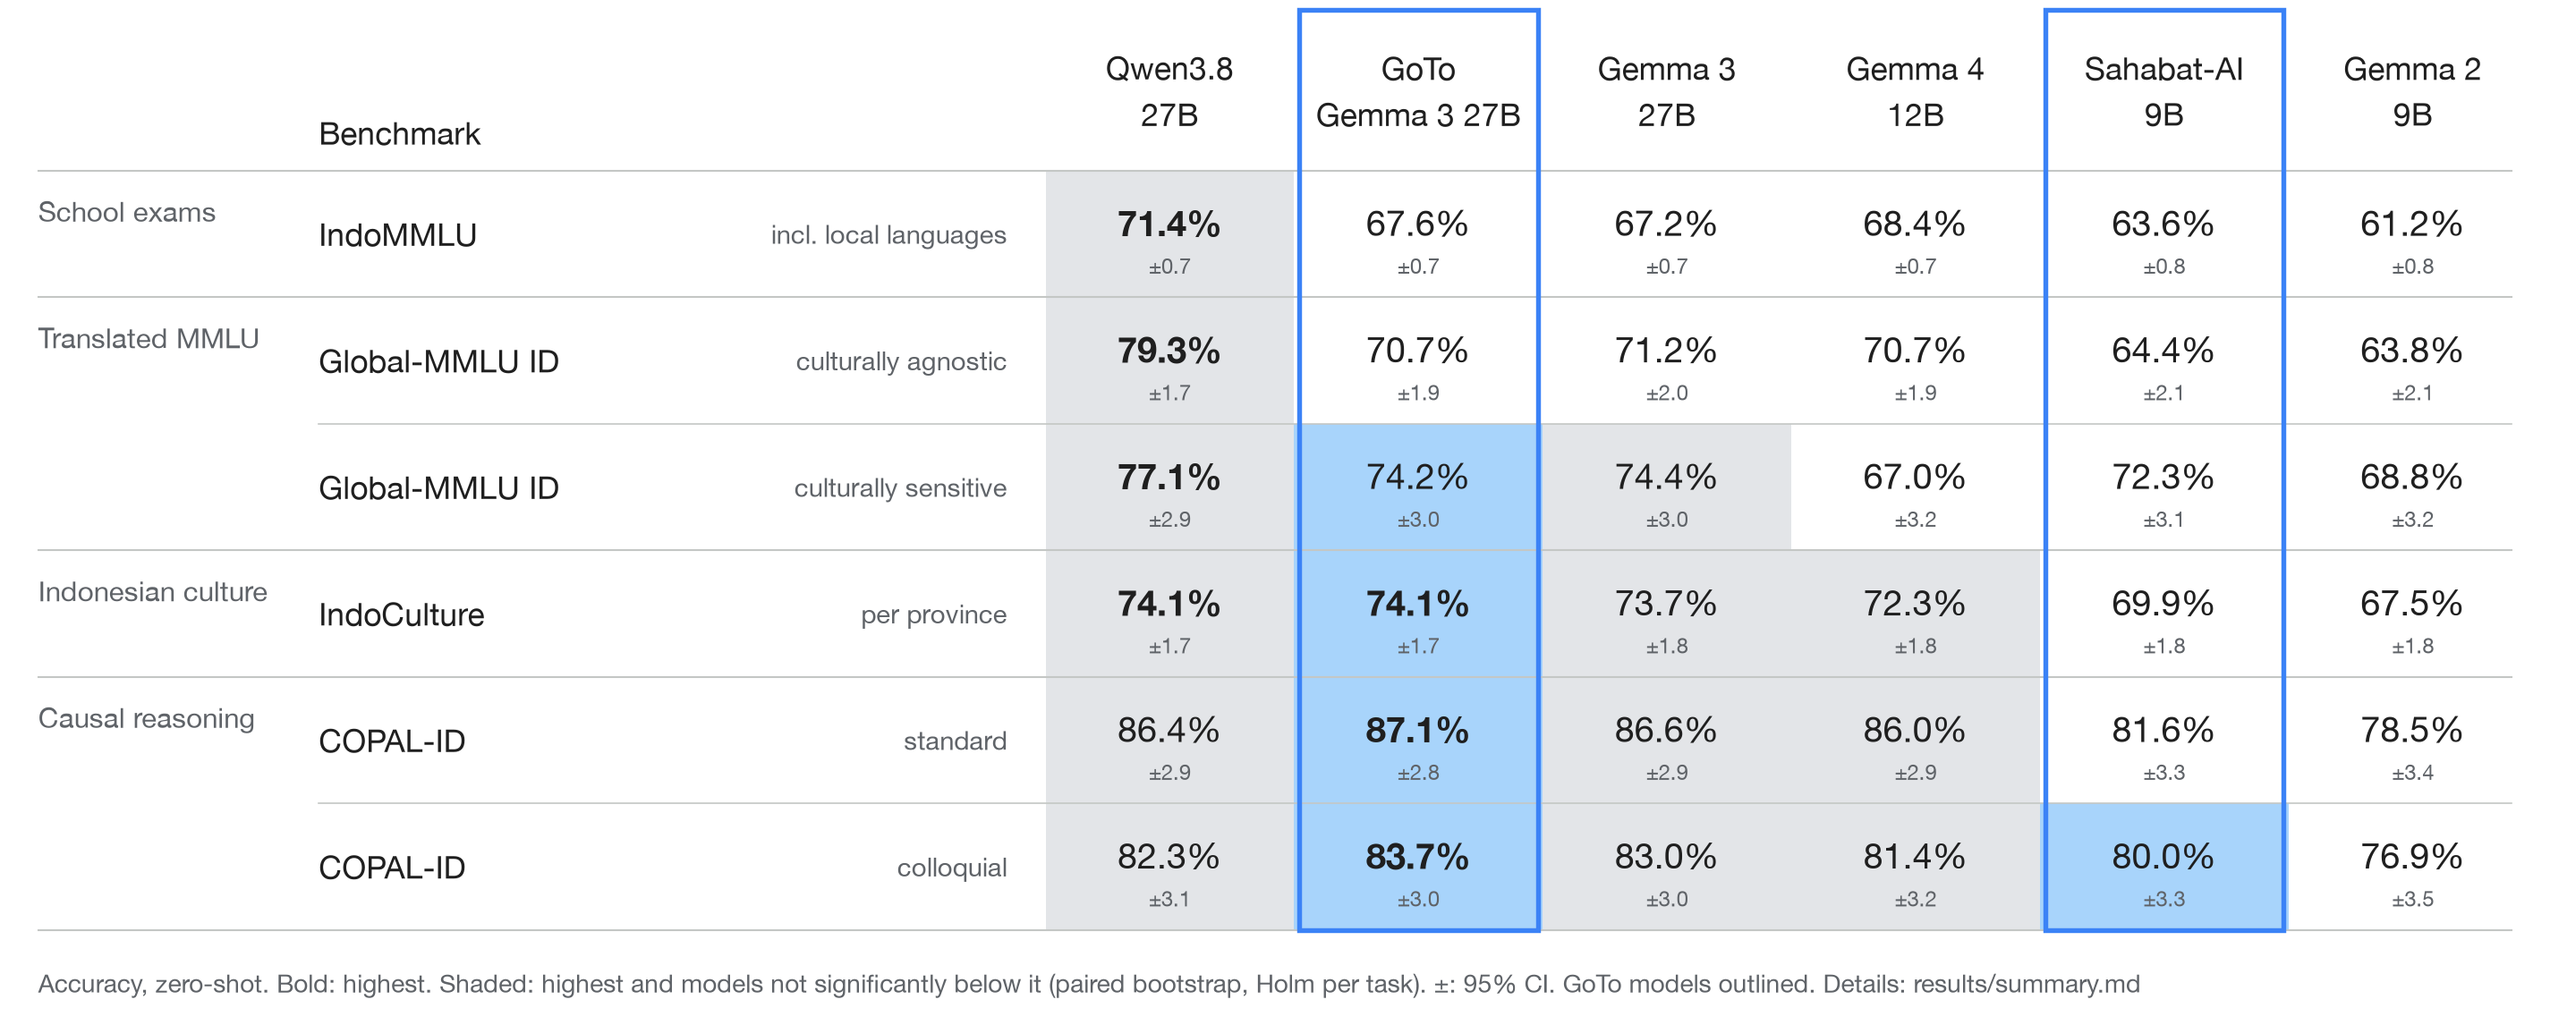
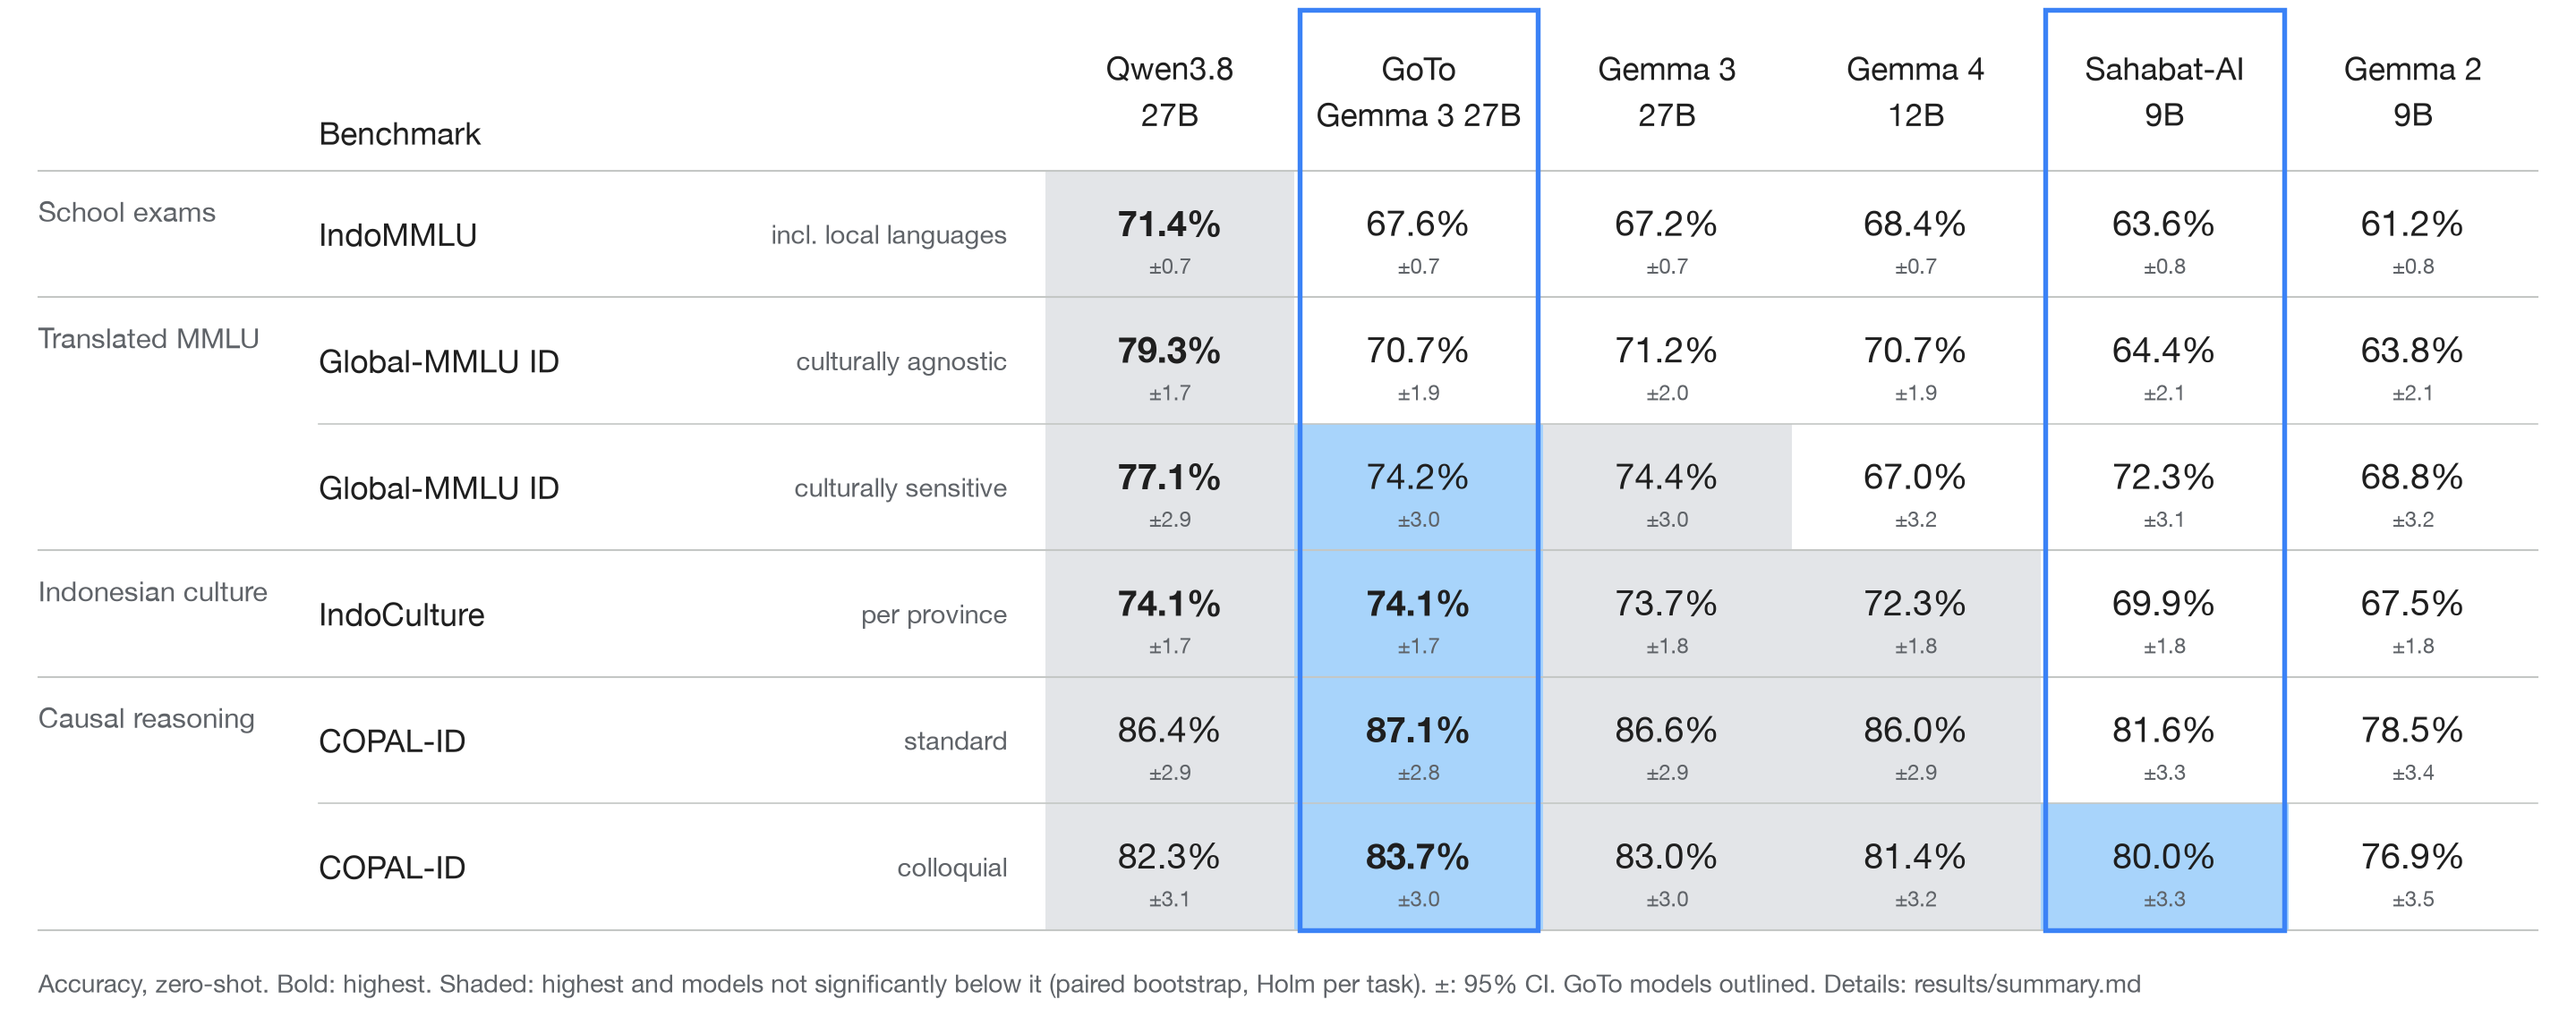
Render the Claude results as a PNG table like the open-model one
results_table.py now renders both tables; the figure width follows the column count.
The Claude table shows the best open model as a muted reference column and a cost row.

diff --git a/analysis/results_table.py b/analysis/results_table.py
@@ -1,7 +1,8 @@
 """Render the headline results table as a PNG for the README.
 
 Reads results/summary.csv and results/best_per_task.csv (both written by analysis/summarize.py) and
-writes results/results_table.png. Bold = highest score. Shaded = highest score and every model not
+writes results/results_table.png; does the same for results/claude/ -> results/claude_table.png, with the
+best open model as a muted reference column. Bold = highest score. Shaded = highest score and every model not
 significantly below it (paired bootstrap, Holm-corrected within the task); blue in a highlighted
 column, grey otherwise. Regional (GoTo) models are outlined. +/- is the 95% bootstrap CI half-width.
 
@@ -17,7 +18,7 @@ from matplotlib.patches import Rectangle
 
 REPO = Path(__file__).resolve().parent.parent
 
-MODELS = [  # (key in summary.csv, header, highlighted)
+OPEN_MODELS = [  # (key in summary.csv, header, highlighted)
     ("qwen3.8-27b", "Qwen3.8\n27B", False),
     ("gotoai-gemma3-27b-it", "GoTo\nGemma 3 27B", True),
     ("gemma3-27b-it", "Gemma 3\n27B", False),
@@ -25,6 +26,14 @@ MODELS = [  # (key in summary.csv, header, highlighted)
     ("sahabatai-gemma2-9b-it", "Sahabat-AI\n9B", True),
     ("gemma2-9b-it", "Gemma 2\n9B", False),
 ]
+CLAUDE_MODELS = [
+    ("claude-haiku-5.5", "Haiku 5.5", False),
+    ("claude-sonnet-5.5", "Sonnet 5.5", False),
+    ("claude-opus-5.5", "Opus 5.5", False),
+]
+REFERENCE = ("qwen3.8-27b", "Qwen3.8 27B\n(best open)")
+# Batch-price cost for all 21,301 items, from the DONE_*.json files of run api-claude (raw runs not in repo).
+CLAUDE_COST = {"claude-haiku-5.5": "$0.31", "claude-sonnet-5.5": "$7.43", "claude-opus-5.5": "$21.70"}
 ROWS = [  # (category, benchmark, note, task in summary.csv)
     ("School exams", "IndoMMLU", "incl. local languages", "indommlu_t0"),
     ("Translated MMLU", "Global-MMLU ID", "culturally agnostic", "global_mmlu_full_id_ca_t0"),
@@ -44,27 +53,29 @@ X_COL0, COL_W = 0.41, 0.0975
 HEADER_H, ROW_H = 1.35, 1.0
 
 
-def load_scores() -> dict[tuple[str, str], tuple[float, float]]:
+def load_scores(path: Path) -> dict[tuple[str, str], tuple[float, float]]:
     """(model, task) -> (score %, CI half-width %)."""
-    with (REPO / "results/summary.csv").open() as f:
+    with path.open() as f:
         return {(r["model"], r["task"]): (float(r["score"]) * 100,
                                           (float(r["ci_hi"]) - float(r["ci_lo"])) * 50)
                 for r in csv.DictReader(f)}
 
 
-def load_ties() -> set[tuple[str, str]]:
-    with (REPO / "results/best_per_task.csv").open() as f:
+def load_ties(path: Path) -> set[tuple[str, str]]:
+    with path.open() as f:
         return {(r["model"], r["task"]) for r in csv.DictReader(f) if r["tied_with_best"] == "true"}
 
 
-def main() -> None:
-    scores = load_scores()
-    ties = load_ties()
-    n_rows = len(ROWS)
+def render(models, scores, ties, out: Path, caption: str, reference=None, cost=None) -> None:
+    """reference: (model key, header) drawn as a muted last column, outside bold/tie marking.
+    cost: model key -> text for an extra bottom row."""
+    cols = models + ([(reference[0], reference[1], False)] if reference else [])
+    n_rows = len(ROWS) + (1 if cost else 0)
     total_h = HEADER_H + n_rows * ROW_H + 0.75
-    fig = plt.figure(figsize=(19, 1.0 + total_h * 0.82), dpi=150)
+    right = X_COL0 + len(cols) * COL_W + X_CAT  # figure width follows the column count
+    fig = plt.figure(figsize=(19 * right, 1.0 + total_h * 0.82), dpi=150)
     ax = fig.add_axes([0, 0, 1, 1])
-    ax.set_xlim(0, 1)
+    ax.set_xlim(0, right)
     ax.set_ylim(total_h, 0)
     ax.axis("off")
     plt.rcParams["font.family"] = ["Helvetica Neue", "Arial", "DejaVu Sans"]
@@ -76,10 +87,11 @@ def main() -> None:
 
     # Header
     ax.text(X_TASK, HEADER_H - 0.3, "Benchmark", fontsize=17, color=INK, va="center")
-    for i, (_, header, _) in enumerate(MODELS):
-        ax.text(col_x(i) + COL_W / 2, HEADER_H / 2 + 0.05, header, fontsize=17, color=INK,
+    for i, (_, header, _) in enumerate(cols):
+        ax.text(col_x(i) + COL_W / 2, HEADER_H / 2 + 0.05, header, fontsize=17,
+                color=MUTED if reference and i == len(models) else INK,
                 ha="center", va="center", linespacing=1.25)
-    ax.plot([X_CAT, 1 - X_CAT], [body_top, body_top], color=RULE, lw=1)
+    ax.plot([X_CAT, right - X_CAT], [body_top, body_top], color=RULE, lw=1)
 
     # Rows
     prev_cat = None
@@ -88,17 +100,22 @@ def main() -> None:
         mid = top + ROW_H / 2
         if cat != prev_cat:
             if prev_cat is not None:
-                ax.plot([X_CAT, 1 - X_CAT], [top, top], color=RULE, lw=1)
+                ax.plot([X_CAT, right - X_CAT], [top, top], color=RULE, lw=1)
             ax.text(X_CAT, top + 0.32, cat, fontsize=15, color=MUTED, va="center")
         else:
-            ax.plot([X_TASK, 1 - X_CAT], [top, top], color=RULE, lw=0.8)
+            ax.plot([X_TASK, right - X_CAT], [top, top], color=RULE, lw=0.8)
         prev_cat = cat
         ax.text(X_TASK, mid, bench, fontsize=17, color=INK, va="center")
         ax.text(X_NOTE_RIGHT, mid, note, fontsize=14, color=MUTED, va="center", ha="right")
 
-        vals = [scores.get((m, task)) for m, _, _ in MODELS]
-        top_score = max(round(v[0], 1) for v in vals if v is not None)
-        for i, ((m, _, hl), v) in enumerate(zip(MODELS, vals)):
+        vals = [scores.get((m, task)) for m, _, _ in cols]
+        top_score = max(round(v[0], 1) for v in vals[:len(models)] if v is not None)
+        for i, ((m, _, hl), v) in enumerate(zip(cols, vals)):
+            if i >= len(models):  # reference column: plain muted score
+                if v is not None:
+                    ax.text(col_x(i) + COL_W / 2, mid, f"{v[0]:.1f}%", fontsize=19, color=MUTED,
+                            ha="center", va="center")
+                continue
             if (m, task) in ties:
                 ax.add_patch(Rectangle((col_x(i), top), COL_W, ROW_H, lw=0,
                                        facecolor=BLUE_FILL if hl else GREY_FILL, zorder=0))
@@ -109,22 +126,41 @@ def main() -> None:
                     va="center", fontweight="bold" if round(v[0], 1) == top_score else "normal")
             ax.text(col_x(i) + COL_W / 2, mid + 0.25, f"±{v[1]:.1f}", fontsize=11.5, color=MUTED,
                     ha="center", va="center")
-    ax.plot([X_CAT, 1 - X_CAT], [body_bottom, body_bottom], color=RULE, lw=1)
+    if cost:
+        top = body_top + len(ROWS) * ROW_H
+        ax.plot([X_CAT, right - X_CAT], [top, top], color=RULE, lw=1)
+        ax.text(X_CAT, top + 0.32, "Cost", fontsize=15, color=MUTED, va="center")
+        ax.text(X_TASK, top + ROW_H / 2, "All 21,301 items", fontsize=17, color=INK, va="center")
+        ax.text(X_NOTE_RIGHT, top + ROW_H / 2, "batch price", fontsize=14, color=MUTED, va="center", ha="right")
+        for i, (m, _, _) in enumerate(models):
+            ax.text(col_x(i) + COL_W / 2, top + ROW_H / 2, cost.get(m, "—"), fontsize=19, color=INK,
+                    ha="center", va="center")
+    ax.plot([X_CAT, right - X_CAT], [body_bottom, body_bottom], color=RULE, lw=1)
 
     # Outline highlighted (regional) columns over header + body
-    for i, (_, _, hl) in enumerate(MODELS):
+    for i, (_, _, hl) in enumerate(models):
         if hl:
             ax.add_patch(Rectangle((col_x(i) + 0.002, 0.08), COL_W - 0.004, body_bottom - 0.08,
                                    fill=False, edgecolor=BLUE_LINE, lw=2.6, zorder=5))
 
-    ax.text(X_CAT, body_bottom + 0.42,
-            "Accuracy, zero-shot. Bold: highest. Shaded: highest and models not significantly below it "
-            "(paired bootstrap, Holm per task). ±: 95% CI. GoTo models outlined. Details: results/summary.md",
-            fontsize=13.5, color=MUTED, va="center")
+    ax.text(X_CAT, body_bottom + 0.42, caption, fontsize=13.5, color=MUTED, va="center")
 
-    out = REPO / "results/results_table.png"
     fig.savefig(out, facecolor="white")
+    plt.close(fig)
     print(f"wrote {out.relative_to(REPO)}")
+
+
+def main() -> None:
+    res = REPO / "results"
+    open_scores = load_scores(res / "summary.csv")
+    render(OPEN_MODELS, open_scores, load_ties(res / "best_per_task.csv"), res / "results_table.png",
+           "Accuracy, zero-shot. Bold: highest. Shaded: highest and models not significantly below it "
+           "(paired bootstrap, Holm per task). ±: 95% CI. GoTo models outlined. Details: results/summary.md")
+    render(CLAUDE_MODELS, {**load_scores(res / "claude/summary.csv"), **open_scores},
+           load_ties(res / "claude/best_per_task.csv"), res / "claude_table.png",
+           "Accuracy, zero-shot, generative (letter taken from the answer). Bold: highest. Shaded: not "
+           "significantly below it (Holm). ±: 95% CI. Grey column: loglikelihood, reference only.",
+           reference=REFERENCE, cost=CLAUDE_COST)
 
 
 if __name__ == "__main__":

diff --git a/README.md b/README.md
@@ -43,6 +43,11 @@ What the numbers support:
 
 Claude models over the Anthropic Message Batches API, same prompts (`runner/run_anthropic.py`). The model writes an answer and the letter is extracted with a regex; an answer with no letter counts as wrong (Haiku 1.7%, Sonnet 0.8%, Opus 0.1% of items, mostly IndoMMLU questions that refer to a missing picture or passage). Thinking off for Haiku and Sonnet; Opus 5.5 cannot turn thinking off and runs at effort `low`. Because the scoring differs from the loglikelihood runs above, read these as a reference point, not a like-for-like ranking. Details: [`results/claude/summary.md`](results/claude/summary.md).
 
+![Claude results table](results/claude_table.png)
+
+<details>
+<summary>Same table as text</summary>
+
 | Task | Haiku 5.5 | Sonnet 5.5 | Opus 5.5 | Qwen3.8 27B (best open) |
 |---|---|---|---|---|
 | IndoMMLU | 71.1 ± 0.7 | 81.2 ± 0.6 | **85.7** ± 0.6 | 71.4 |
@@ -52,6 +57,8 @@ Claude models over the Anthropic Message Batches API, same prompts (`runner/run_
 | COPAL-ID standard | 84.6 ± 3.0 | 94.6 ± 1.9 | **97.0** ± 1.4 | 86.4 |
 | COPAL-ID colloquial | 80.9 ± 3.2 | 91.1 ± 2.4 | **97.3** ± 1.3 | 82.3 |
 | Cost for all 21,301 items (batch price) | $0.31 | $7.43 | $21.70 | |
+
+</details>
 
 - Opus 5.5 shows no colloquial penalty on COPAL-ID (97.0 vs 97.3); Haiku and Sonnet drop about 3.5 points, like the open models.
 - On IndoCulture the gap between the best closed and best open model (19 points) is far larger than any regional-vs-general gap among open models.
@@ -88,7 +95,7 @@ Claude models over the Anthropic Message Batches API, same prompts (`runner/run_
 | `runner/run_anthropic.py` | Claude models over the Anthropic API (sync or Message Batches), same prompts and letter extraction |
 | `scripts/` | local drivers: provision, sync_code, start_run, watch, pull_results, teardown |
 | `analysis/summarize.py` | local: scores, bootstrap CI, paired deltas, noise floor → `results/summary.{md,csv}` |
-| `analysis/results_table.py` | renders `results/results_table.png` from `results/summary.csv` |
+| `analysis/results_table.py` | renders `results/results_table.png` and `results/claude_table.png` from the summary CSVs |
 | `analysis/copal_check.py` | diagnosis of the built-in COPAL-ID task from sample logs |
 | `blog/` | write-up of phase 0 |
 | `tokenizer/fertility.py` | local, CPU: tokens per word on FLORES-200 ind_Latn vs eng_Latn |
